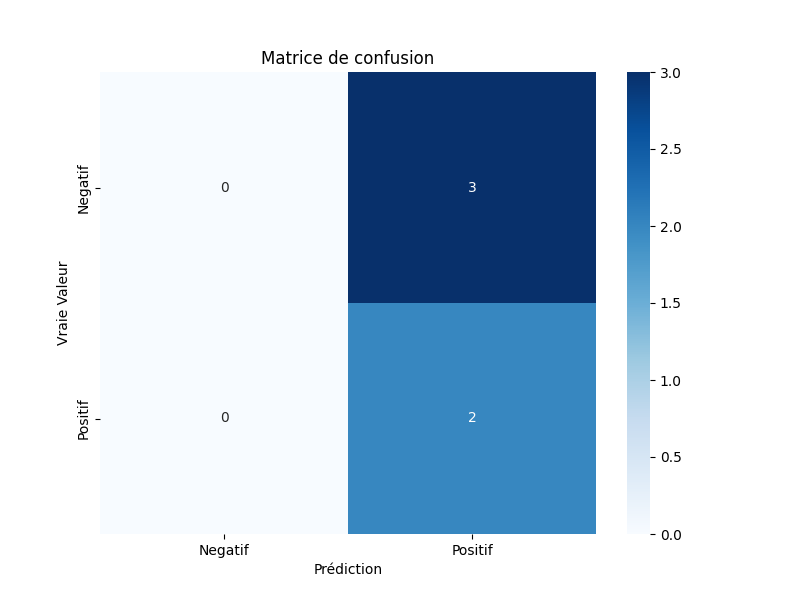
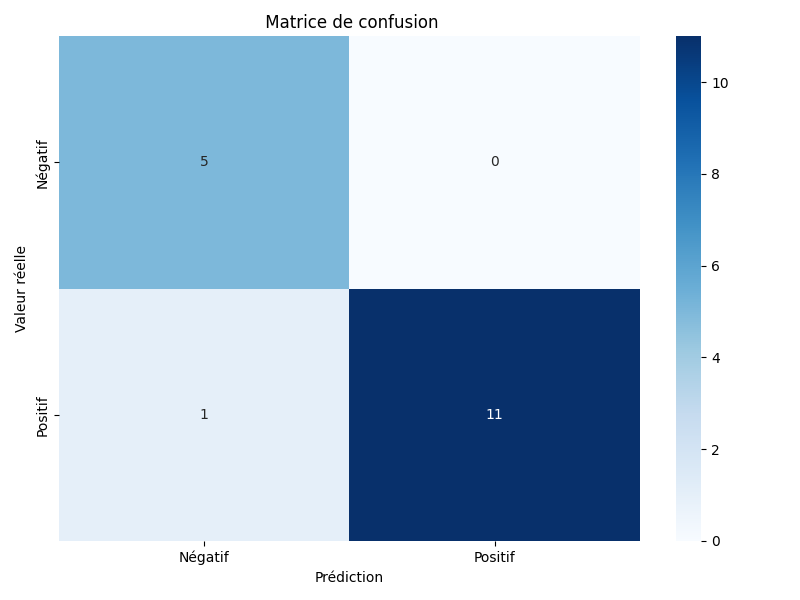
Ajout des instructions pour la matrice de confusion et explication sur le modèle Hugging Face

diff --git a/readme.md b/readme.md
@@ -35,3 +35,35 @@ Une fois les conteneurs démarrés, exécute cette commande dans un nouveau term
 docker exec -it flask-api python3 db/create_table.py
 ```
 ✅ Un message Table 'tweets' créée avec succès. doit s'afficher.
+
+#  Entraîner un modèle et générer la matrice de confusion
+
+Un script est disponible pour entraîner un modèle de régression logistique sur les tweets déjà enregistrés dans la base de données et générer une matrice de confusion.
+
+### 1. Depuis le dossier src, exécuter :
+
+```bash
+cd ../src
+python model_training.py
+```
+
+✅ Le modèle s'entraîne automatiquement
+
+✅ Une matrice de confusion est affichée
+
+✅ Une image src/matrice_confusion.png est générée
+
+## À savoir sur le modèle Hugging Face
+
+Le modèle distilbert-base-uncased-finetuned-sst-2-english est entraîné sur des textes en anglais uniquement.
+👉 Pour obtenir une analyse de sentiment cohérente, les tweets envoyés à l’API doivent donc être en anglais.
+
+```bash
+["I love this product", "I want to hurt someone"]  ✅ Compris
+
+["J'adore ce produit", "j’ai envie de te tuer"]   ❌ Mauvaise détection
+
+```
+
+### Auteur 
+# Youssef ALAOUI EL MRANI
